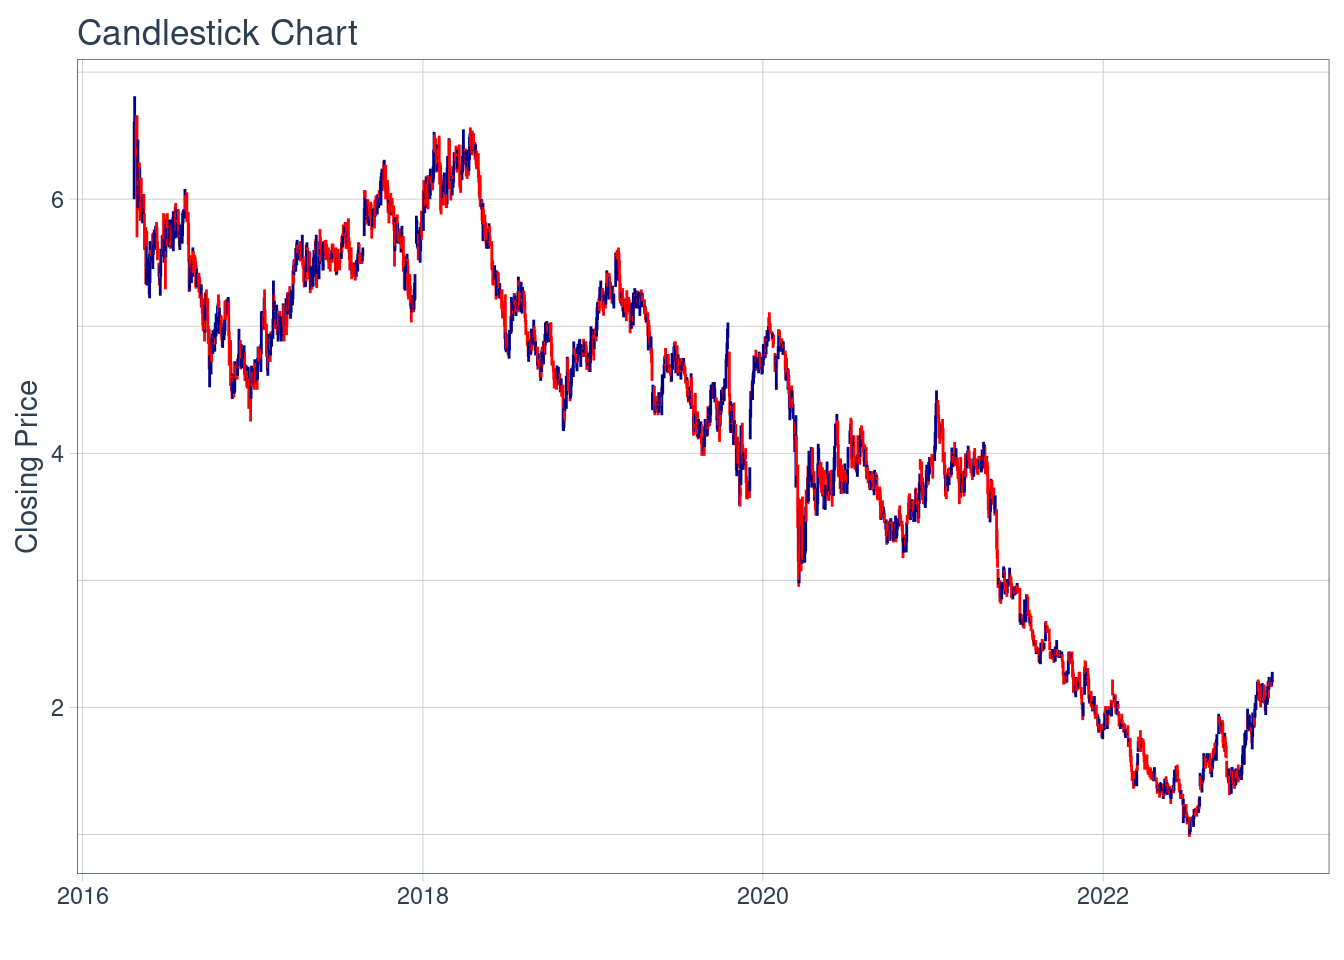
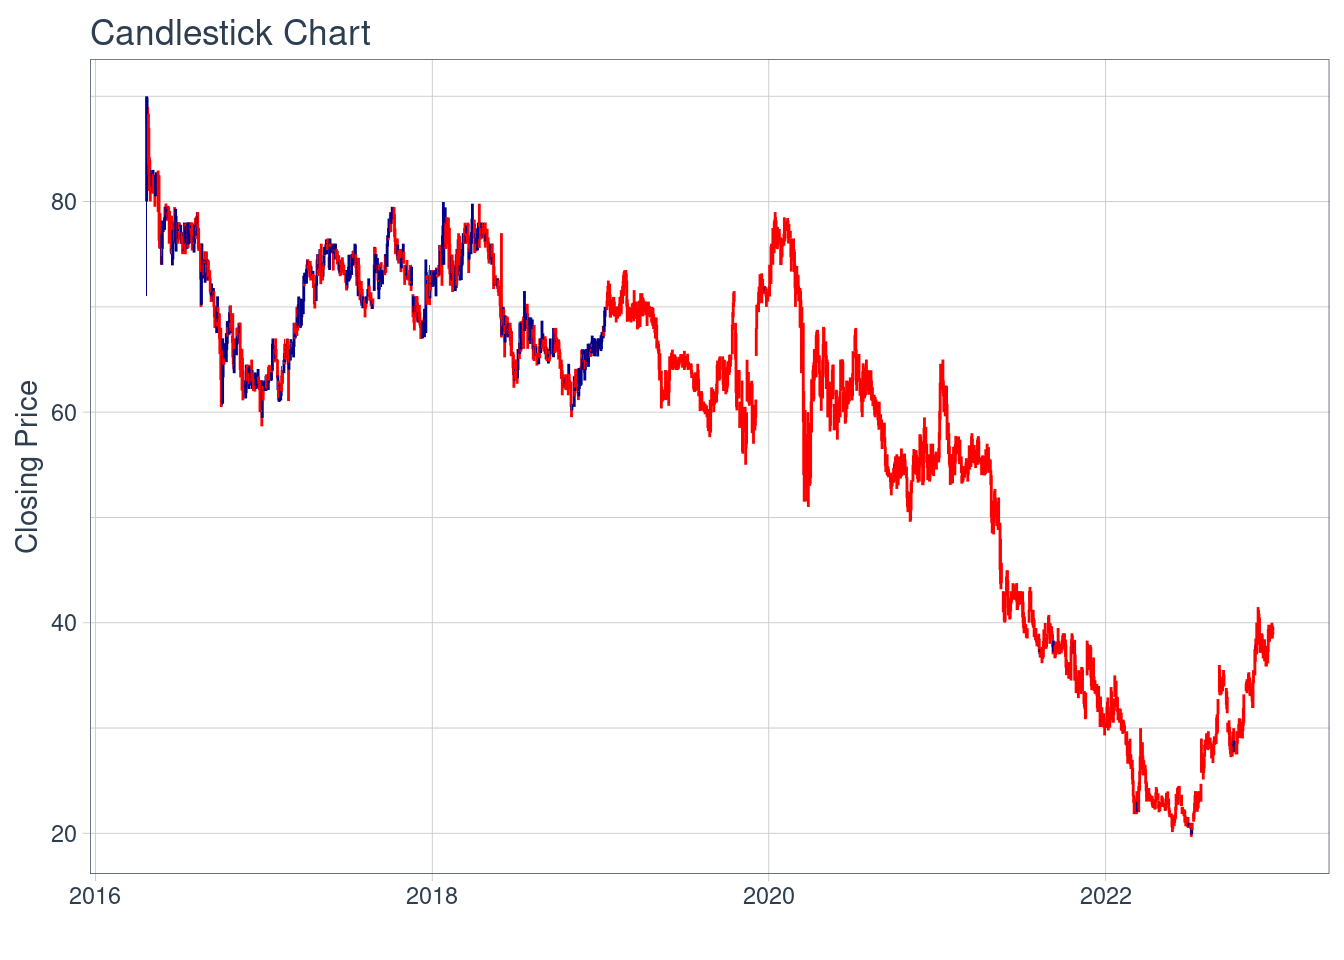
FINAL

diff --git a/Plantilla.html b/Plantilla.html
@@ -101,11 +101,8 @@ pre > code.sourceCode > span > a:first-child::before { text-decoration: underlin
 
 </header>
 
-<section id="descripción-activo-y-contexto-hito-1" class="level2">
-<h2 class="anchored" data-anchor-id="descripción-activo-y-contexto-hito-1">Descripción Activo y Contexto (Hito 1)</h2>
-<p><strong>Hito 3</strong><br>
-Gestión financiera<br>
-Grupo 7: Energía</p>
+<section id="hito-3-gestión-financiera-grupo-7-energía" class="level1">
+<h1><strong>Hito 3</strong> Gestión financiera Grupo 7: Energía</h1>
 <p><strong>Integrantes:</strong></p>
 <p>Juan Ayala</p>
 <p>Benjamín Ruiz Tagle</p>
@@ -113,20 +110,25 @@ Grupo 7: Energía</p>
 <p><strong>Profesor:</strong></p>
 <p>Sebastián Cea</p>
 <p>Fecha de entrega: Lunes 13 de Noviembre 23:59.</p>
-<section id="definición" class="level3">
-<h3 class="anchored" data-anchor-id="definición">Definición</h3>
+</section>
+<section id="bonus-app---dash-app-resumen" class="level1">
+<h1>Bonus app - Dash app Resumen</h1>
+<p>Se realizó un Dash app resumiendo el infrome en: <a href="http://astralopitecus9.pythonanywhere.com">DASH APP FERNANDO MANZANO</a></p>
+</section>
+<section id="definición" class="level1">
+<h1>Definición</h1>
 <p>Definir y describir activo a estudiar, acompañar con datos (tributa a indicador de Contexto) y con referencias científicas realizando una investigacion relacionada a articulos ubicados en la base de datos de Web of Science, con una calificacion Q1-Q2 y referenciada varias veces (Esto se verá en el tutorial de la semana 5).</p>
 <p>El activo a evaluar será Enel Chile S.A, por su parte, tiene como objetivo ” En 2040, 10 años antes de la meta que marcaban los planes anteriores, la flota de Enel será 100 % renovable …alcanzará el Cero Neto” - <a href="https://www.enelgreenpower.com/es/quienes-somos/mission-2040">El futuro está cerca | Enel Green Power</a>. Esta meta de alcanzar en 2040 es 10 años más ambiciosa que el compromiso hecho por 70 países de lograrlo en 2050 - <a href="https://news.un.org/es/story/2019/10/1464591">Llegar a cero emisiones netas de carbono para 2050, ¿es posible? | Noticias ONU</a>.&nbsp;</p>
 <p>Como se ha mencionado en la revista Sustainability Science desde más de 10 años, existe una crisis en sostenibilidad en la que los sectores de negocios que son incapaces de colaborar para alcanzar estas metas - Industry and academia for a transition towards sustainability: advancing sustainability science through university–business collaborations (Sustainability Science). Mientras que Enel tiene objetivos de sostenibilidad a grandes rasgos en diversos países como Italia, España, Estados Unidos, Brasil, Colombia y Chile.</p>
 <p>La realidad es que la sostenibilidad es el negocio del futuro y un activo como Enel Chile S.A se encuentra mucho más avanzado en este rubro que su competencia. Con una mision muy clara de abrir el mundo de la energía a nuevas tecnologías, abrir la gestión de la energía a las personas, abrir la posibilidad de nuevos usos de la energía, abrirse a un mayor número de alianzas.</p>
-<p>El activo ENIC tiene un valor promedio para el intervalo igual a 4</p>
+<p>El activo ENELCHILE.SN tiene un valor promedio para el intervalo igual a 58</p>
 <div class="cell">
 <div class="cell-output-display">
-<p><img src="Plantilla_files/figure-html/ENICline-1.png" class="img-fluid" width="672"></p>
+<p><img src="Plantilla_files/figure-html/ENELCHILE.SNline-1.png" class="img-fluid" width="672"></p>
 </div>
 </div>
 <div class="cell">
-<div class="sourceCode cell-code" id="cb1"><pre class="sourceCode r code-with-copy"><code class="sourceCode r"><span id="cb1-1"><a href="#cb1-1" aria-hidden="true" tabindex="-1"></a>ENIC <span class="sc">%&gt;%</span></span>
+<div class="sourceCode cell-code" id="cb1"><pre class="sourceCode r code-with-copy"><code class="sourceCode r"><span id="cb1-1"><a href="#cb1-1" aria-hidden="true" tabindex="-1"></a>ENELCHILE.SN <span class="sc">%&gt;%</span></span>
 <span id="cb1-2"><a href="#cb1-2" aria-hidden="true" tabindex="-1"></a>    <span class="fu">ggplot</span>(<span class="fu">aes</span>(<span class="at">x =</span> date, <span class="at">y =</span> close)) <span class="sc">+</span></span>
 <span id="cb1-3"><a href="#cb1-3" aria-hidden="true" tabindex="-1"></a>    <span class="fu">geom_candlestick</span>(<span class="fu">aes</span>(<span class="at">open =</span> open, <span class="at">high =</span> high, <span class="at">low =</span> low, <span class="at">close =</span> close)) <span class="sc">+</span></span>
 <span id="cb1-4"><a href="#cb1-4" aria-hidden="true" tabindex="-1"></a>    <span class="fu">labs</span>(<span class="at">title =</span> <span class="st">"Candlestick Chart"</span>, <span class="at">y =</span> <span class="st">"Closing Price"</span>, <span class="at">x =</span> <span class="st">""</span>) <span class="sc">+</span></span>
@@ -136,8 +138,8 @@ Grupo 7: Energía</p>
 </div>
 </div>
 </section>
-<section id="motivación" class="level3">
-<h3 class="anchored" data-anchor-id="motivación">Motivación</h3>
+<section id="motivación" class="level1">
+<h1>Motivación</h1>
 <p>Establecer la relevancia o potencial interés específico del activo que justifique el porque realizar la investigacion a este activo y no a otros. Argumentar haciendo referencia a datos o noticias actuales que motiven el estudio de este activo.</p>
 <p>Se habla de que la Energía renovable será el futuro de la humanidad, debido a que sin esta, se tendrían que seguir utilizando materias primas no renovables como el petróleo para el funcionamiento de la humanidad, lo que ocasiona un aumento en las emisiones de gases de invernadero que genera un aumento en el impacto del efecto invernadero.</p>
 <p>Entonces las energías renovables son fuentes de energías inagotables, limpias y que se pueden obtener de cualquier lugar del mundo, además que estas cada vez se van volviendo más baratas de obtener mientras que por el contrario, las energías fósiles se van volviendo más caras. Según los pronósticos de la AIE, Agencia Internacional de la Energía,&nbsp; la participación de las renovables en el suministro eléctrico global pasará a ser el 44% en 2040, principalmente a través de las tecnologías eólica y fotovoltaica. Por lo que conocer y estudiar estas nuevas energías es clave debido a que serán los próximos suministros para el funcionamiento de un planeta más sano y eficiente.</p>
@@ -145,8 +147,8 @@ Grupo 7: Energía</p>
 <p>Es una industria que se ha tomado su tiempo en iniciar debido a los altos costos al momento de implementar la tecnología, con bajas ganancias, esto ha sido cierto para gran parte de las diversas energías renovables existentes, en especial la fotovoltaica y geotérmica. Durante el 2016, el aumento de la capacidad instalada de energía solar fue mayor que cualquier otra fuente. Desde 2010, los costes de nuevas tecnologías se han reducido un 70% para energía fotovoltaica y en un 25% para la energía eólica.&nbsp;</p>
 <p>Según la Agencia Internacional de Energía (AIE) este mercado va en camino de acelerarse los próximos años(IEA 2021 Renewables). El informe prevé que el 95 % del crecimiento de la capacidad mundial de generación de energía proceda de las energías renovables para finales de 2026. Es por esto, que se ha observado un crecimiento constante de este sector y con los nuevos avances tecnológicos se puede estimar un aumento exponencial de esta industria.</p>
 </section>
-<section id="contexto" class="level3">
-<h3 class="anchored" data-anchor-id="contexto">Contexto</h3>
+<section id="contexto" class="level1">
+<h1>Contexto</h1>
 <p>Ingesta datos del activo y provee un análisis de estadística descriptiva simple junto con el análisis de una variable económica de contexto. Ejemplo: Si el activo es una minera, la variable puede ser el precio del metal. Acompañar este analisis con graficos, riesgos, horizonte de inversion, rentabilidad del activo, entre otros.</p>
 <p>Los siguientes datos fueron extraídos de la Bolsa de comercio de Santiago, Yahoo Finance y S&amp;P Global Ratings:</p>
 <table class="table">
@@ -191,6 +193,7 @@ Grupo 7: Energía</p>
 <li><p><strong>Demanda de Energía:</strong> La demanda de energía es fundamental para el éxito de Enel Chile. Una demanda creciente puede aumentar la utilización de sus instalaciones y servicios, mientras que una demanda decreciente puede resultar en subutilización de activos, afectando la eficiencia operativa y los ingresos.</p></li>
 <li><p><strong>Política Monetaria y Cambios en Tasas de Interés:</strong> La política monetaria y las variaciones en las tasas de interés pueden afectar el costo del endeudamiento de Enel Chile y la valoración de sus inversiones. Cambios en las tasas de interés impactan los costos financieros y la atractividad de las inversiones en el sector energético.</p></li>
 <li><p><strong>Tendencias en Energías Renovables:</strong> Las tendencias en energías renovables tienen un impacto directo en la estrategia de Enel Chile, que se ha comprometido con la transición hacia fuentes de energía sostenibles. Cambios en la adopción y preferencia por energías renovables pueden influir en la demanda de los servicios de Enel Chile y su posición competitiva en el mercado.</p></li>
+<li><p><strong>Eventos Climáticos Extremos:</strong> Eventos climáticos extremos, como huracanes e inundaciones, constituyen riesgos significativos para Enel Chile. Pueden dañar la infraestructura energética, interrumpir la generación y distribución de energía, y generar costos adicionales. La creciente frecuencia e intensidad, asociadas al cambio climático, resaltan la necesidad de resiliencia y adaptabilidad en las operaciones de Enel Chile para mitigar impactos adversos y garantizar la sostenibilidad a largo plazo.</p></li>
 </ul>
 <p>Cualquier corte o falla similar en las instalaciones de transmisión podría interrumpir el negocio de la Compañía, lo que afectaría adversamente sus resultados operacionales y situación financiera.</p>
 <p>“El 24 de septiembre de 2011, casi diez millones de habitantes de la zona central de Chile sufrieron un”apagón” (lo que afectó a más de la mitad de población chilena), debido a una falla en la subestación Ancoa de Transelec de 220 kV, lo que produjo una interrupción del servicio en dos líneas de 500 kV del SIC y llevó a que se cayera el programa computacional de recuperación remota que usa el Centro de Despacho Económico de Carga (“CDEC”) para operar la red. Ese “apagón”, que se extendió por dos horas, dejó en evidencia la fragilidad del sistema de transmisión y su necesidad de ampliarse y que se introduzcan mejoras tecnológicas para así aumentar su confiabilidad.” - Factores de Riesgo Enel Chile.</p>
@@ -198,17 +201,14 @@ Grupo 7: Energía</p>
 <p><img src="Proyecto-Gestion-Financiera/Categorias.png" class="img-fluid"></p>
 <p>Conexión entre las seis macro categorías de la taxonomía de riesgos, la integración son los aspectos ASG y los ODS.</p>
 <!-- -->
-<ul>
-<li>Eventos Climáticos Extremos</li>
-</ul>
 <div class="cell">
 <div class="cell-output-display">
 <p><img src="Plantilla_files/figure-html/context-1.png" class="img-fluid" width="672"></p>
 </div>
 </div>
 </section>
-<section id="análisis-de-largo-plazo" class="level3">
-<h3 class="anchored" data-anchor-id="análisis-de-largo-plazo">Análisis de Largo Plazo</h3>
+<section id="análisis-de-largo-plazo" class="level1">
+<h1>Análisis de Largo Plazo</h1>
 <section id="caracterización-deuda-aplicación-cap.-15" class="level4">
 <h4 class="anchored" data-anchor-id="caracterización-deuda-aplicación-cap.-15">Caracterización deuda (Aplicación cap. 15)</h4>
 <p>Describir el activo especificando en que realiza sus inversiones (por tipo de instrumento). Especificar sus acciones comunes, preferentes y bonos relacionados aplicando lo aprendido en el capitulo respectivo.</p>
@@ -249,7 +249,10 @@ Grupo 7: Energía</p>
 <p><strong>8. Liquidación y Asignación</strong>:&nbsp;</p>
 <p><br>
 Se realiza la liquidación de la oferta y se asignan las acciones a los inversores que participaron en la compra.</p>
-<p><strong>Caracterización de la Colocación</strong></p>
+</section>
+</section>
+<section id="caracterización-de-la-colocación" class="level1">
+<h1><strong>Caracterización de la Colocación</strong></h1>
 <p>La colocación de acciones de Enel Chile puede ser parte de una estrategia corporativa más amplia de Enel SpA para aumentar su participación en la subsidiaria o para recaudar capital adicional.&nbsp;</p>
 <p>Esto, a menudo, involucra acuerdos directos entre Enel SpA y Enel Chile, y puede no seguir un proceso de emisión de acciones tradicional en el mercado abierto. Enel SpA puede optar por comprar directamente acciones de Enel Chile o intercambiar instrumentos financieros, como se mencionó en tu pregunta anterior.</p>
 <p>En resumen, el proceso de emisión de acciones de Enel Chile seguiría los pasos generales,pero debido a la relación con su empresa matriz, Enel SpA, la colocación de acciones podría ser parte de estrategias corporativas más complejas que no siguen el procedimiento básico de una oferta pública tradicional.</p>
@@ -259,8 +262,8 @@ Se realiza la liquidación de la oferta y se asignan las acciones a los inversor
 </figure>
 </div>
 </section>
-<section id="relación-con-activos-derivados" class="level4">
-<h4 class="anchored" data-anchor-id="relación-con-activos-derivados">Relación con activos derivados</h4>
+<section id="relación-con-activos-derivados" class="level1">
+<h1>Relación con activos derivados</h1>
 <p>Describe un activo derivado relacionado, mostrando datos de su evolucion. Tambien mencionar porque es importante este derivado para la activo en cuestion.</p>
 <p>Aplicar procedimiento de valoración de un derivado por inclusión en estructura de retornos (a profundizar en tutorial de la unidad de Derivados).</p>
 <p>Enel Chile siguiendo su política de gestión de riesgos, realiza fundamentalmente contrataciones de derivados de tasas de interés y tipos de cambio. El Grupo clasifica sus coberturas en:&nbsp;</p>
@@ -276,18 +279,17 @@ Se realiza la liquidación de la oferta y se asignan las acciones a los inversor
 <li><strong>Derivados no cobertura</strong>: Aquellos derivados financieros que no cumplen los requisitos establecidos por las NIIF para ser designados como instrumentos de cobertura, se registran a valor razonable con cambios en resultados (activos financieros mantenidos para negociar)</li>
 </ul>
 </section>
-</section>
-<section id="reporte-grupal" class="level3">
-<h3 class="anchored" data-anchor-id="reporte-grupal">Reporte grupal</h3>
+<section id="reporte-grupal-1---asignacion-de-activos" class="level1">
+<h1>Reporte grupal 1 - Asignacion de Activos</h1>
 <p>Definicion de un balance de portafolio sobre los 3 activos del grupo, donde se especifique los pesos de cada activo de tal forma que maximize el retorno de la cartera.</p>
 <p>Para poder asignar el porcentaje que se le dará a los activos en el portafolio es necesario tener en consideración algunos factores, a modo de entender y desarrollar un análisis claro.</p>
 <p>Los tres activos del portafolio se encuentran definidos y con sus respectivos datos en la siguiente tabla:</p>
 <table class="table">
 <colgroup>
-<col style="width: 23%">
-<col style="width: 30%">
-<col style="width: 23%">
-<col style="width: 23%">
+<col style="width: 22%">
+<col style="width: 33%">
+<col style="width: 22%">
+<col style="width: 22%">
 </colgroup>
 <tbody>
 <tr class="odd">
@@ -318,13 +320,16 @@ Se realiza la liquidación de la oferta y se asignan las acciones a los inversor
 </table>
 <p>Tabla 2: Datos generales de los activos<br>
 Fuente: elaboración propia</p>
-<p><strong>Análisis Activos</strong></p>
+<section id="análisis-activos" class="level2">
+<h2 class="anchored" data-anchor-id="análisis-activos"><strong>Análisis Activos</strong></h2>
 <p>Primero que todo, vemos una capitalización de mercado en la que Cencosud Shopping lidera por mucho. En términos de Beta, los tres activos son relativamente seguros, el Banco de Chile es el que tiene el beta más bajo, entendible considerando las regulaciones y la manera en la que opera un banco. Por último observamos que los tres activos tienen un ratio sharpe negativo de los últimos tres meses lo que indica que su rendimiento es menor al de la rentabilidad sin riesgo.</p>
 <p>Debido a que Enel tiene el Beta más alto, el Ratio Sharpe más negativo y la menor capitalización de mercado, se le va a otorgar el menor % en la asignación.</p>
 <p>Como el Banco de Chile tiene un Beta muy bajo y similar Ratio Sharpe a Cencosud Shopping, estableceremos en ambos el mismo % en la asignación, el objetivo de esta decisión es mantener al Banco de Chile como la inversión más segura, que estabilice el riesgo del portafolio.</p>
 <p>Desde la perspectiva del riesgo en tiempos como estos con guerras en Europa y la incertidumbre global, se cree que los activos más ligados a la energía sean más riesgosos debido a la fluctuación en activos como el petróleo o incluso con restricciones en torno al medio ambiente en el mundo y Chile. Sumado a esto&nbsp; los bancos en periodos de estancamiento como lo está chile, suelen tener un riesgo un poco más alto en comparación con las acciones inmobiliarias que suelen no tener fluctuaciones muy altas debido a la constante alza de la tasa de ocupación como sucede en CENCOSUD SHOPPING.</p>
 <p>En el último trimestre en comparación a los mismos meses anteriores del año pasado CENCOSUD SHOPPING aumentó sus utilidades en un 99,6% gracias al incremento de la tasa de ocupación lo que significó que tuviera una rentabilidad anual de su acción “CENCOSHOPP” de 35% por lo que se le va a dar un peso más grande en el portafolio.</p>
-<p><strong>Asignación Portafolio</strong></p>
+</section>
+<section id="asignación-portafolio" class="level2">
+<h2 class="anchored" data-anchor-id="asignación-portafolio"><strong>Asignación Portafolio</strong></h2>
 <table class="table">
 <tbody>
 <tr class="odd">
@@ -349,7 +354,12 @@ Fuente: elaboración propia</p>
 </tr>
 </tbody>
 </table>
-<p><strong>Modelo Binomial de Jarrow-Rudd</strong></p>
+</section>
+</section>
+<section id="modelos-de-analisis" class="level1">
+<h1>Modelos de analisis</h1>
+<section id="modelo-binomial-jarrow-rudd" class="level2">
+<h2 class="anchored" data-anchor-id="modelo-binomial-jarrow-rudd">Modelo Binomial Jarrow-Rudd</h2>
 <p>Movimiento hacia arriba del Árbol Binomial</p>
 <p>Con probabilidades fijas, todos los inputs que describen el movimiento de precios, como la volatilidad σ, la tasa de interés libre de riesgo “r” y el rendimiento “q”, se reflejan en el tamaño de los movimientos hacia arriba y hacia abajo.</p>
 <p>Donde Δt es la duración de un paso en años, calculada como el tiempo de vencimiento de la opción t dividido por el número de pasos del modelo n:</p>
@@ -367,7 +377,17 @@ Fuente: elaboración propia</p>
 <li><p><strong>am : True/False for American/European</strong></p></li>
 <li><p><strong>n : caminos binomiales</strong></p></li>
 </ul>
-<p><strong>Resultados</strong></p>
+</section>
+<section id="modelo-black-scholes" class="level2">
+<h2 class="anchored" data-anchor-id="modelo-black-scholes">Modelo Black-Scholes</h2>
+<p>El modelo de Black-Scholes es una fórmula matemática utilizada para calcular el precio teórico de opciones financieras europeas. Desarrollado por Fischer Black, Myron Scholes y Robert Merton en la década de 1970, el modelo tiene en cuenta factores como el precio actual de la acción, la volatilidad del activo subyacente, el tiempo hasta la expiración de la opción y la tasa libre de riesgo.</p>
+<p>El calculo se realiza de la siguiente manera:</p>
+<p><img src="Proyecto-Gestion-Financiera/imagen_2023-11-12_180750219.png" class="img-fluid"></p>
+<p>El modelo de Black-Scholes podría utilizarse para evaluar opciones financieras asociadas a acciones de Enel Chile. Por ejemplo, podría ser aplicado para valorar opciones de compra o venta de acciones de la empresa, permitiendo a los inversionistas tomar decisiones informadas sobre la compra o venta de estos instrumentos financieros.</p>
+<p><strong>Comparación Teórica con el Modelo Binomial de Jarrow-Rudd:</strong> Ambos modelos son utilizados para la valoración de opciones, pero difieren en su enfoque. Mientras que el modelo de Black-Scholes asume un movimiento de precios continuo y suavidad en las fluctuaciones del mercado, el modelo binomial de Jarrow-Rudd utiliza un enfoque discreto y divide el tiempo en pasos finitos. En términos prácticos, la elección entre ambos modelos puede depender de la naturaleza específica del activo subyacente y de las condiciones del mercado. El modelo de Black-Scholes es más eficiente computacionalmente, pero el modelo binomial puede ser más flexible para ciertos escenarios.</p>
+</section>
+<section id="resultados" class="level2">
+<h2 class="anchored" data-anchor-id="resultados"><strong>Resultados</strong></h2>
 <p>Para analizar ambos modelos, los parámetros obtenidos se sacan directamente en tiempo real desde Yahoo Finance usando la librería yfinance.</p>
 <table class="table">
 <tbody>
@@ -404,13 +424,21 @@ Fuente: elaboración propia</p>
 <p>El precio de la opción de compra (call) calculado con el modelo de Black-Scholes es de aproximadamente 0.5222, mientras que el modelo de Jarrow-Rudd da un precio de aproximadamente 0.5222.</p>
 <p>La diferencia entre los dos precios es mínima (0.0000237107), lo que indica una cercanía sustancial entre los valores calculados por ambos modelos en este caso. Esta pequeña discrepancia puede atribuirse a las diferencias en las suposiciones y métodos de cálculo específicos de cada modelo. En general, la similitud en los resultados sugiere que ambos modelos son consistentes en la valoración de la opción en esta situación particular.</p>
 <p>Como siempre, es crucial considerar las condiciones específicas del activo subyacente, las características del mercado y las suposiciones de cada modelo al interpretar los resultados y tomar decisiones de inversión.</p>
-<p><strong>Comparación modelos</strong></p>
+</section>
+<section id="comparación-modelos" class="level2">
+<h2 class="anchored" data-anchor-id="comparación-modelos"><strong>Comparación modelos</strong></h2>
 <p>Para realizar una comparación entre los dos modelos se realizaron varios cálculos usando diversos tickers y graficando la diferencia porcentual entre sus resultados.</p>
 <p><img src="Proyecto-Gestion-Financiera/Diferencia%20porcentual.png" class="img-fluid"></p>
 <p>Gráfico: Diferencia porcentual entre Black-Scholes y Jarrow Rudd.</p>
 <p>Fuente: Elaboración Propia</p>
 <p>Podemos apreciar que la diferencia porcentual no supera el valor absoluto de 0.2%. Esto es un porcentaje bastante pequeño y muestra que ambos modelos, a pesar de ser muy distintos en su manera de calcular las opciones, son consistentes en sus resultados.</p>
 </section>
+</section>
+<section id="administración-de-efectivo-caso-grupal" class="level1">
+<h1><strong>Administración de Efectivo: Caso Grupal</strong></h1>
+<p>Tricia Haltiwinger, presidenta de Braam Industries, busca mejorar el desempeño financiero de la empresa, fabricante de equipo de oficina. Aunque el crecimiento ha sido lento, se prevé un aumento en las ventas debido a la recuperación económica. Andrew Preston, tesorero, evalúa opciones para modificar la política de crédito actual de 30 días neto, considerando tres alternativas: relajar la decisión de otorgar crédito, extender el periodo a 45 días neto, o combinar ambas. Cada opción aumentaría las ventas, pero con el inconveniente de mayores tasas de incumplimiento y costos administrativos.</p>
+<p>Considerando costos variables de producción del 45% de las ventas y una tasa de interés del 6%, la empresa debe elegir la política de crédito con el mayor Valor Presente Neto (VPN) positivo. Sin embargo, se destaca que la afirmación sobre la opción 3, con tasas de incumplimiento y costos administrativos menores que la opción 2, es incorrecta. La viabilidad de la opción 3 depende de implementar mejoras en la evaluación de riesgos y la automatización del proceso.</p>
+<p>En resumen, la empresa debe realizar un análisis de costo-beneficio para determinar la opción más adecuada. La eficiencia y solvencia de Braam Industries se comparan con Enel, siendo esta última potencialmente una mejor opción de inversión si su VPN es mayor.</p>
 </section>
 <section id="bibliografía" class="level1">
 <h1><strong>Bibliografía</strong></h1>
@@ -425,7 +453,7 @@ Fuente: elaboración propia</p>
 <li><p><a href="https://www.enel.cl/content/dam/enel-cl/sostenibilidad/creacion-valor-compartido/estudios-y-position-paper/estudio-ecosistemico.pdf">Estudio de Valoración de Servicios Ecosistémicos en predios de Enel</a></p></li>
 <li><p><a href="https://www.bolsadesantiago.com/resumen_instrumento/ENELCHILE">ENELCHILE Precio 56,87 Variación +1,23%</a></p></li>
 <li><p><a href="http://www.macroaxis.com">www.macroaxis.com</a></p></li>
-<li></li>
+<li><p><a href="www.dash.plotly.com">dash.plotly</a></p></li>
 </ul>
 </section>
 
